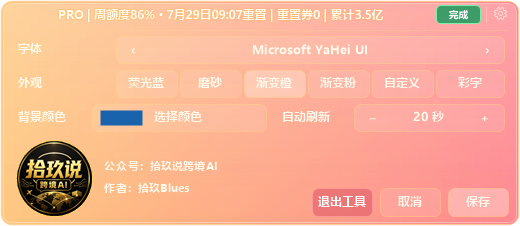
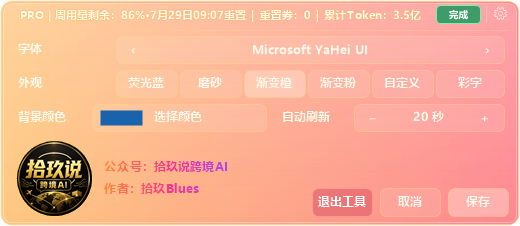
Release v1.2.2 display and theme updates

Changed region(s): [[0.0308, 0.031, 0.8308, 0.0929], [0.1846, 0.7124, 0.4615, 0.7743], [0.1846, 0.8053, 0.4, 0.8673]]

diff --git a/Program.cs b/Program.cs
@@ -359,7 +359,7 @@ namespace CodexUsageOverlay
             CodexTaskState newTaskState = taskStatusMonitor.Snapshot();
             bool taskStateChanged = newTaskState != taskState;
             taskState = newTaskState;
-            displayText = BuildDisplayText(usage, Math.Max(240, UnscalePixels(overlayWidth) - 54));
+            displayText = BuildDisplayText(usage, Math.Max(140, UnscalePixels(overlayWidth) - 98));
             if (becameVisible || boundsChanged || dpiChanged || taskStateChanged || !String.Equals(displayText, lastRenderedText, StringComparison.Ordinal))
             {
                 RenderLayered();
@@ -367,7 +367,7 @@ namespace CodexUsageOverlay
             }
         }
 
-        private static string BuildDisplayText(UsageData usage, int overlayWidth)
+        private static string BuildDisplayText(UsageData usage, int availableTextWidth)
         {
             string planLabel = usage.Plan.ToUpperInvariant();
             bool hasQuotaData = usage.RateLimitStatus != "待刷新";
@@ -378,23 +378,33 @@ namespace CodexUsageOverlay
 
             System.Collections.Generic.List<string> sections = new System.Collections.Generic.List<string>();
             sections.Add(planLabel);
-            if (overlayWidth >= 480)
+            if (availableTextWidth >= 415)
             {
-                sections.Add("周额度 " + weeklyRemaining + " · " + FormatResetText(usage.WeeklyResetText));
+                sections.Add("周用量剩余：" + weeklyRemaining + "·" + FormatResetText(usage.WeeklyResetText));
                 if (IsAbnormalRateLimitStatus(usage.RateLimitStatus))
-                    sections.Add("状态 " + usage.RateLimitStatus);
+                    sections.Add("状态：" + usage.RateLimitStatus);
                 if (usage.AvailableResetCredits.HasValue)
-                    sections.Add("重置券 " + usage.AvailableResetCredits.Value.ToString(CultureInfo.InvariantCulture));
-                sections.Add("累计 " + tokensText);
-                return String.Join("  |  ", sections.ToArray());
+                    sections.Add("重置券：" + usage.AvailableResetCredits.Value.ToString(CultureInfo.InvariantCulture));
+                sections.Add("累计Token：" + tokensText);
+                return String.Join(" | ", sections.ToArray());
             }
 
-            sections.Add("周" + weeklyRemaining + " · " + FormatResetText(usage.WeeklyResetText));
+            if (availableTextWidth >= 300)
+            {
+                sections.Clear();
+                sections.Add("周用量剩余：" + weeklyRemaining);
+                if (usage.AvailableResetCredits.HasValue)
+                    sections.Add("重置券：" + usage.AvailableResetCredits.Value.ToString(CultureInfo.InvariantCulture));
+                sections.Add("累计Token：" + tokensText);
+                return String.Join(" | ", sections.ToArray());
+            }
+
+            sections.Add("周" + weeklyRemaining + "·" + FormatResetText(usage.WeeklyResetText));
             if (IsAbnormalRateLimitStatus(usage.RateLimitStatus))
                 sections.Add(usage.RateLimitStatus);
             if (usage.AvailableResetCredits.HasValue)
                 sections.Add("券" + usage.AvailableResetCredits.Value.ToString(CultureInfo.InvariantCulture));
-            sections.Add("累计" + tokensText);
+            sections.Add("Token" + tokensText);
             return String.Join(" | ", sections.ToArray());
         }
 
@@ -427,7 +437,7 @@ namespace CodexUsageOverlay
         {
             if (String.IsNullOrWhiteSpace(resetText) || resetText == "—" || resetText == "待刷新")
                 return resetText;
-            return resetText + "重置";
+            return resetText.Replace(" ", String.Empty) + "重置";
         }
 
         private void RenderLayered()
@@ -630,7 +640,7 @@ namespace CodexUsageOverlay
             Directory.CreateDirectory(outputDirectory);
             try
             {
-                displayText = "PRO | 周额度86% · 7月29日09:07重置 | 重置券0 | 累计3.5亿";
+                displayText = "PRO | 周用量剩余：86%·7月29日09:07重置 | 重置券：0 | 累计Token：3.5亿";
                 taskState = CodexTaskState.Completed;
                 dpiScale = 1f;
                 Width = 520;
@@ -673,7 +683,9 @@ namespace CodexUsageOverlay
 
             using (Font labelFont = new Font("Microsoft YaHei UI", 9f, FontStyle.Bold, GraphicsUnit.Point))
             using (Font valueFont = new Font("Microsoft YaHei UI", 9f, FontStyle.Bold, GraphicsUnit.Point))
-            using (Brush textBrush = new SolidBrush(textColor))
+            using (Brush textBrush = CreateDisplayTextBrush(
+                new RectangleF(0, HeaderHeight, CanvasWidth, Math.Max(1, CanvasHeight - HeaderHeight)),
+                textColor, visualSettings.Theme == "RainbowText"))
             using (StringFormat left = new StringFormat())
             using (StringFormat center = new StringFormat())
             {
@@ -733,10 +745,12 @@ namespace CodexUsageOverlay
                     using (Pen logoBorder = new Pen(Color.FromArgb(220, 255, 211, 92), 1.5f))
                         graphics.DrawEllipse(logoBorder, BrandLogoBounds);
                 }
-                using (Font brandFont = new Font("Microsoft YaHei UI", 8.25f, FontStyle.Bold, GraphicsUnit.Point))
+                RectangleF brandTextBounds = RectangleF.Union(PublicAccountBounds, AuthorBounds);
+                using (Font brandFont = new Font("Microsoft YaHei UI", 9f, FontStyle.Bold, GraphicsUnit.Point))
+                using (Brush brandTextBrush = CreateDisplayTextBrush(brandTextBounds, textColor, true))
                 {
-                    graphics.DrawString("公众号：拾玖说跨境AI", brandFont, textBrush, PublicAccountBounds, left);
-                    graphics.DrawString("作者：拾玖Blues", brandFont, textBrush, AuthorBounds, left);
+                    graphics.DrawString("公众号：拾玖说跨境AI", brandFont, brandTextBrush, PublicAccountBounds, left);
+                    graphics.DrawString("作者：拾玖Blues", brandFont, brandTextBrush, AuthorBounds, left);
                 }
                 DrawInlineBox(graphics, ExitBounds, Color.FromArgb(158, 225, 92, 104), Color.FromArgb(220, 255, 170, 178));
                 using (Brush exitText = new SolidBrush(Color.White))
@@ -869,11 +883,11 @@ namespace CodexUsageOverlay
         {
             try
             {
-                return new Font(visualSettings.FontName, 8.75f, FontStyle.Bold, GraphicsUnit.Point);
+                return new Font(visualSettings.FontName, 8.5f, FontStyle.Bold, GraphicsUnit.Point);
             }
             catch
             {
-                return new Font("Microsoft YaHei UI", 8.75f, FontStyle.Bold, GraphicsUnit.Point);
+                return new Font("Microsoft YaHei UI", 8.5f, FontStyle.Bold, GraphicsUnit.Point);
             }
         }
 

diff --git a/CodexAppServerClient.cs b/CodexAppServerClient.cs
@@ -128,7 +128,7 @@ namespace CodexUsageOverlay
             Dictionary<string, object> clientInfo = new Dictionary<string, object>();
             clientInfo["name"] = "codex_usage_overlay";
             clientInfo["title"] = "Codex Usage Overlay";
-            clientInfo["version"] = "1.2.1";
+            clientInfo["version"] = "1.2.2";
             Dictionary<string, object> initializeParams = new Dictionary<string, object>();
             initializeParams["clientInfo"] = clientInfo;
 

diff --git a/README.md b/README.md
@@ -1,12 +1,14 @@
 # Codex Usage Overlay
 
-一个面向 Windows Codex 桌面应用的轻量用量悬浮条。它跟随 Codex 窗口显示账户套餐、周额度、重置时间、可用重置券、累计 Token 和当前任务状态。
+一个面向 Windows Codex 桌面应用的轻量用量悬浮条。它跟随 Codex 窗口显示账户套餐、周用量剩余、重置时间、可用重置券、累计 Token 和当前任务状态。
+
+设置面板中的公众号名与作者署名在所有主题下默认使用渐变彩字。
 
 ## 为什么做这个工具
 
 Codex 的剩余用量信息需要进入“设置 → 剩余用量”才能查看。使用频繁时，为了确认还能用多少、什么时候重置，每次都要打开设置页面，会打断当前工作。
 
-这个工具把常用信息放到 Codex 窗口顶部：周额度剩余比例、重置时间、重置券、累计 Token 和任务状态都能直接看到。目标很简单——不用离开当前任务，也不用反复点击设置，一眼就知道用量情况。
+这个工具把常用信息放到 Codex 窗口顶部：周用量剩余比例、重置时间、重置券、累计 Token 和任务状态都能直接看到。目标很简单——不用离开当前任务，也不用反复点击设置，一眼就知道用量情况。
 
 ## 界面预览
 
@@ -14,7 +16,7 @@ Codex 的剩余用量信息需要进入“设置 → 剩余用量”才能查看
 
 ### 渐变彩字
 
-顶部信息栏使用透明背景；展开设置时，仅下方设置区保留浅色磨砂底。
+顶部信息栏使用透明背景；展开设置时，下方设置区保留浅色磨砂底，设置文字同样使用渐变彩字。
 
 收起：
 
@@ -67,7 +69,7 @@ Codex 的剩余用量信息需要进入“设置 → 剩余用量”才能查看
 ## 功能
 
 - 显示 Codex 返回的套餐名称，不自行添加“20X”等文案。
-- 显示长周期／周额度剩余比例和重置时间。
+- 显示长周期／周用量剩余比例和重置时间。
 - 显示可用重置券数量。
 - 显示个人资料中的账户累计 Token（`summary.lifetimeTokens`）。
 - 显示任务状态：处理中、完成、中断、检测中。
@@ -85,7 +87,7 @@ Codex 的剩余用量信息需要进入“设置 → 剩余用量”才能查看
 
 ## 下载与安装
 
-1. 下载 [CodexUsageOverlay-Setup-1.2.1.exe](https://github.com/ivan51769/CodexUsageOverlay/releases/latest/download/CodexUsageOverlay-Setup-1.2.1.exe)。
+1. 下载 [CodexUsageOverlay-Setup-1.2.2.exe](https://github.com/ivan51769/CodexUsageOverlay/releases/latest/download/CodexUsageOverlay-Setup-1.2.2.exe)。
 2. 可选：下载 [SHA256SUMS.txt](https://github.com/ivan51769/CodexUsageOverlay/releases/latest/download/SHA256SUMS.txt) 校验安装包完整性。
 3. 双击安装包，按提示完成安装。
 4. 安装结束后工具会自动启动，同时创建桌面快捷方式。

diff --git a/AGENT_INSTALL_PROMPT.md b/AGENT_INSTALL_PROMPT.md
@@ -9,7 +9,7 @@
 https://github.com/ivan51769/CodexUsageOverlay
 
 最新版安装包：
-https://github.com/ivan51769/CodexUsageOverlay/releases/latest/download/CodexUsageOverlay-Setup-1.2.1.exe
+https://github.com/ivan51769/CodexUsageOverlay/releases/latest/download/CodexUsageOverlay-Setup-1.2.2.exe
 
 SHA-256 校验文件：
 https://github.com/ivan51769/CodexUsageOverlay/releases/latest/download/SHA256SUMS.txt
@@ -58,18 +58,18 @@ https://github.com/ivan51769/CodexUsageOverlay/releases/latest/download/SHA256SU
 $downloadDir = Join-Path $env:TEMP "CodexUsageOverlay-Install"
 New-Item -ItemType Directory -Path $downloadDir -Force | Out-Null
 
-$installer = Join-Path $downloadDir "CodexUsageOverlay-Setup-1.2.1.exe"
+$installer = Join-Path $downloadDir "CodexUsageOverlay-Setup-1.2.2.exe"
 $checksums = Join-Path $downloadDir "SHA256SUMS.txt"
 
 Invoke-WebRequest -UseBasicParsing `
-  -Uri "https://github.com/ivan51769/CodexUsageOverlay/releases/latest/download/CodexUsageOverlay-Setup-1.2.1.exe" `
+  -Uri "https://github.com/ivan51769/CodexUsageOverlay/releases/latest/download/CodexUsageOverlay-Setup-1.2.2.exe" `
   -OutFile $installer
 Invoke-WebRequest -UseBasicParsing `
   -Uri "https://github.com/ivan51769/CodexUsageOverlay/releases/latest/download/SHA256SUMS.txt" `
   -OutFile $checksums
 
 $expected = ((Get-Content $checksums | Where-Object {
-  $_ -match "CodexUsageOverlay-Setup-1.2.1.exe$"
+  $_ -match "CodexUsageOverlay-Setup-1.2.2.exe$"
 }) -split "\s+")[0].ToLowerInvariant()
 $actual = (Get-FileHash $installer -Algorithm SHA256).Hash.ToLowerInvariant()
 if ($actual -ne $expected) {
